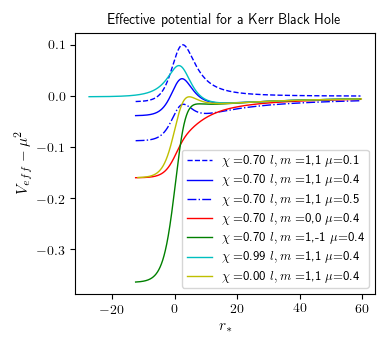
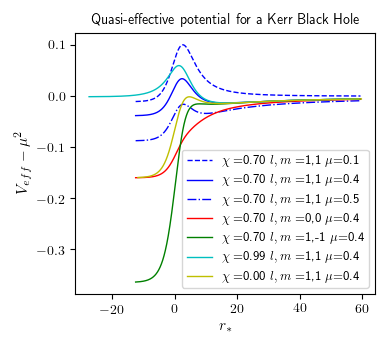
new plots

Changed region(s): [[0.2154, 0.0286, 0.9231, 0.0857]]

diff --git a/Analysis/scripts/Effective_potential_v3.py b/Analysis/scripts/Effective_potential_v3.py
@@ -83,7 +83,7 @@ for i in range(0, len(almmu)):
 plt.ylabel("$V_{eff} - \\mu^2$", fontsize=label_size)
 plt.xlabel("$r_*$", fontsize=label_size)
 plt.legend(fontsize=legend_font_size)
-plt.title("Effective potential for a Kerr Black Hole", fontsize=title_font_size)
+plt.title("Quasi-effective potential for a Kerr Black Hole", fontsize=title_font_size)
 plt.tight_layout()
 plot_path = "/home/dc-bamb1/GRChombo/Analysis/plots/"
 save_name = "Effective_Kerr_potential_v3.png"
